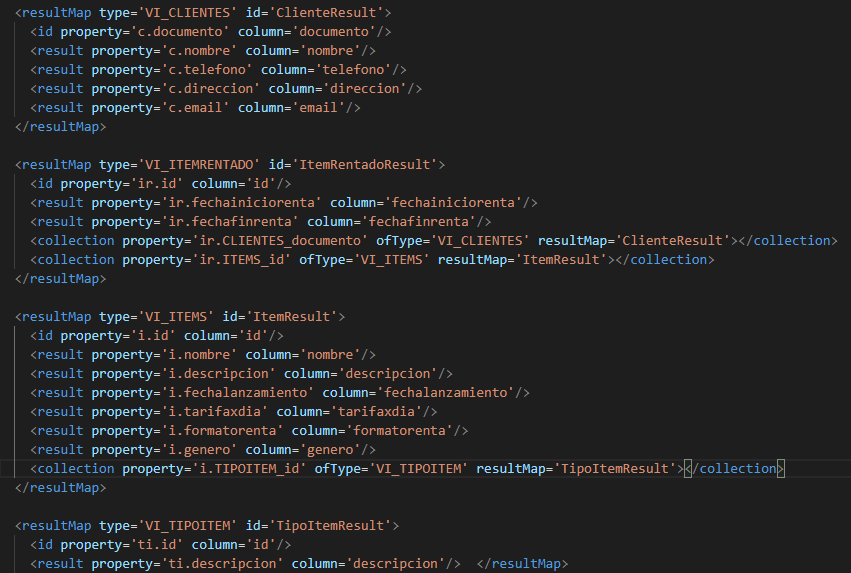
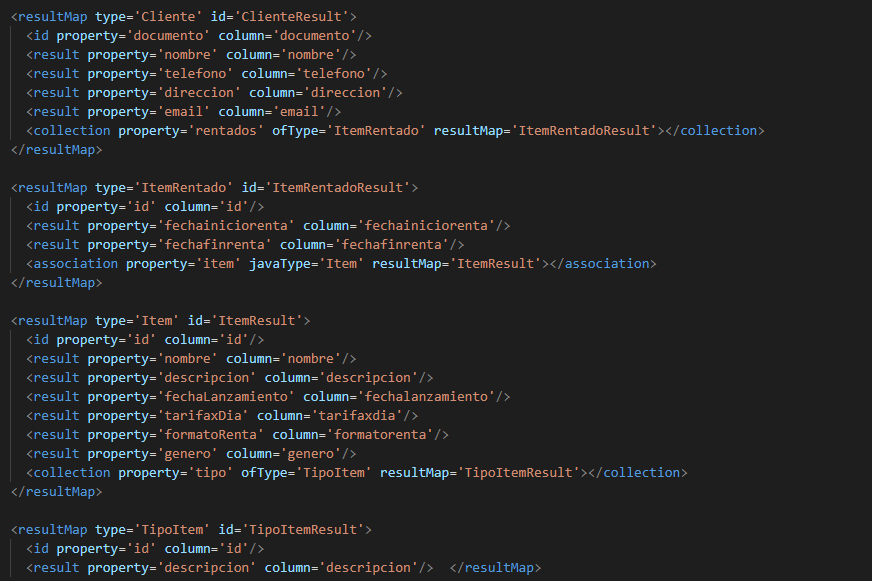
Terminacion Parte II MyBatis, sin README actualizado

Changed region(s): [[0.0, 0.0, 0.9777, 0.5044], [0.0, 0.534, 0.9166, 0.8604], [0.0, 0.8901, 0.6722, 1.0]]

diff --git a/src/main/java/edu/eci/cvds/samples/entities/Cliente.java b/src/main/java/edu/eci/cvds/samples/entities/Cliente.java
@@ -6,6 +6,7 @@
 package edu.eci.cvds.samples.entities;
 
 import java.io.Serializable;
+import java.util.ArrayList;
 
 public class Cliente implements Serializable{
     
@@ -14,18 +15,20 @@ public class Cliente implements Serializable{
     private String telefono;
     private String direccion;
     private String email;
-    private boolean vetado; 
+    private boolean vetado;
+    private ArrayList<ItemRentado> rentados;
 
     public Cliente() {
     }
 
-    public Cliente(String nombre, long documento, String telefono, String direccion, String email, boolean vetado) {   
+    public Cliente(String nombre, long documento, String telefono, String direccion, String email, boolean vetado, ArrayList<ItemRentado> rentados) {   
         this.nombre = nombre;
         this.documento = documento;
         this.telefono = telefono;
         this.direccion = direccion;
         this.email = email;
         this.vetado = vetado;
+        this.rentados = rentados;
     }
 
   
@@ -36,6 +39,7 @@ public class Cliente implements Serializable{
         this.direccion = direccion;
         this.email = email;
         this.vetado = false;
+        this.rentados = new ArrayList<>();
     }
 
            
@@ -87,9 +91,17 @@ public class Cliente implements Serializable{
         this.vetado = betado;
     }
 
+    public ArrayList<ItemRentado> getRentados() {
+        return rentados;
+    }
+
+    public void setRentados(ArrayList<ItemRentado> Rentados) {
+        this.rentados = Rentados;
+    }
+
     @Override
     public String toString() {
-        return "Cliente{" + "nombre=" + nombre + ", documento=" + documento + ", telefono=" + telefono + ", direccion=" + direccion + ", email=" + email + ", vetado=" + vetado + '}' + "\n\t";
+        return "Cliente{" + "nombre = " + nombre + ", documento = " + documento + ", telefono = " + telefono + ", direccion = " + direccion + ", email = " + email + ", vetado = " + vetado + ", rentados = " + rentados + '}' + "\n\t";
     } 
     
 }

diff --git a/src/main/java/edu/eci/cvds/samples/services/client/MyBatisExample.java b/src/main/java/edu/eci/cvds/samples/services/client/MyBatisExample.java
@@ -21,11 +21,15 @@ package edu.eci.cvds.samples.services.client;
 import java.io.IOException;
 import java.io.InputStream;
 import java.sql.SQLException;
+import java.util.Date;
+
 import org.apache.ibatis.io.Resources;
 import org.apache.ibatis.session.SqlSession;
 import org.apache.ibatis.session.SqlSessionFactory;
 import org.apache.ibatis.session.SqlSessionFactoryBuilder;
 import edu.eci.cvds.sampleprj.dao.mybatis.mappers.*;
+import edu.eci.cvds.samples.entities.Item;
+import edu.eci.cvds.samples.entities.TipoItem;
 
 /**
  *
@@ -69,17 +73,22 @@ public class MyBatisExample {
         //cm...
         
         ClienteMapper cm = sqlss.getMapper(ClienteMapper.class);
-        System.out.println(cm.consultarClientes());
+        //System.out.println(cm.consultarClientes());
+        //System.out.println(cm.consultarCliente(6));
+        //cm.agregarItemRentadoACliente(998, 4, new Date(2021,10,3), new Date(2021,10,5));
 
+        ItemMapper im = sqlss.getMapper(ItemMapper.class);
+
+        //im.insertarItem(new Item(new TipoItem(70, "guerra"), 22, "Celular", "Equipo tecnologico", new Date(121, 10, 15), 1545545744, "abduzcan", "tecnologia"));
         
         sqlss.commit();
+
+        //System.out.println(im.consultarItem(93));
+        System.out.println(im.consultarItems());
         
+        //System.out.println(cm.consultarCliente(998));
         
         sqlss.close();
-
-        
-        
+   
     }
-
-
 }

diff --git a/src/main/java/edu/eci/cvds/sampleprj/dao/mybatis/mappers/ClienteMapper.java b/src/main/java/edu/eci/cvds/sampleprj/dao/mybatis/mappers/ClienteMapper.java
@@ -3,6 +3,7 @@ package edu.eci.cvds.sampleprj.dao.mybatis.mappers;
 import java.util.Date;
 import java.util.List;
 import org.apache.ibatis.annotations.Param;
+import org.junit.runners.Parameterized.Parameters;
 
 import edu.eci.cvds.samples.entities.Cliente;
 
@@ -12,7 +13,7 @@ import edu.eci.cvds.samples.entities.Cliente;
  */
 public interface ClienteMapper {
     
-    public Cliente consultarCliente(int id); 
+    public Cliente consultarCliente(@Param("idcli") int id);
     
     /**
      * Registrar un nuevo item rentado asociado al cliente identificado
@@ -22,10 +23,10 @@ public interface ClienteMapper {
      * @param fechainicio
      * @param fechafin 
      */
-    public void agregarItemRentadoACliente(int id, 
-            int idit, 
-            Date fechainicio,
-            Date fechafin);
+    public void agregarItemRentadoACliente(@Param("idc") int id, 
+            @Param("idt") int idit, 
+            @Param("fini") Date fechainicio,
+            @Param("ffin") Date fechafin);
 
     /**
      * Consultar todos los clientes

diff --git a/src/main/java/edu/eci/cvds/sampleprj/dao/mybatis/mappers/ItemMapper.java b/src/main/java/edu/eci/cvds/sampleprj/dao/mybatis/mappers/ItemMapper.java
@@ -16,9 +16,9 @@ public interface ItemMapper {
     
     public List<Item> consultarItems();        
     
-    public Item consultarItem(int id);
+    public Item consultarItem(@Param("idIt") int id);
     
-    public void insertarItem(Item it);
+    public void insertarItem(@Param ("item") Item it);
 
         
 }

diff --git a/src/main/java/edu/eci/cvds/samples/entities/ItemRentado.java b/src/main/java/edu/eci/cvds/samples/entities/ItemRentado.java
@@ -8,6 +8,8 @@ package edu.eci.cvds.samples.entities;
 import java.io.Serializable;
 import java.sql.Date;
 
+import org.apache.ibatis.annotations.Param;
+
 /**
  *
  * @author 2106913

diff --git a/README.md b/README.md
@@ -53,6 +53,7 @@
         <typeAlias type='edu.eci.cvds.samples.entities.TipoItem' alias='TipoItem'/>
     </typeAliases>	
     ```
+![](https://github.com/Pokecris200/Lab7CVDS/blob/master/Recursos/TypeAliases%20mybatis-config.png)
 
 2. Lo primero que va a hacer es configurar un 'mapper' que permita que el framework reconstruya todos los objetos Cliente con sus detalles (ItemsRentados). Para hacer más eficiente la reconstrucción, la misma se realizará a partir de una sola sentencia SQL que relaciona los Clientes, sus Items Rentados, Los Items asociados a la renta, y el tipo de item. Ejecute esta sentencia en un cliente SQL (en las estaciones Linux está instalado EMMA), y revise qué nombre se le está asignando a cada columna del resultado:
 
@@ -81,6 +82,7 @@
         left join VI_ITEMS as i on ir.ITEMS_id=i.id 
         left join VI_TIPOITEM as ti on i.TIPOITEM_id=ti.id 
 	```
+![](https://github.com/Pokecris200/Lab7CVDS/blob/master/Recursos/Consulta%20SQL%20MyBatis.png)
 
 3. Abra el archivo XML en el cual se definirán los parámetros para que MyBatis genere el 'mapper' de Cliente (ClienteMapper.xml). Ahora, mapee un elemento de tipo \<select> al método 'consultarClientes':
 
@@ -89,8 +91,9 @@
    			SENTENCIA SQL
 	</select>
 	```
+![](https://github.com/Pokecris200/Lab7CVDS/blob/master/Recursos/Actualizacion%20ClienteMapper.png)
 
-3. Note que el mapeo hecho anteriormente, se indica que los detalles de a qué atributo corresponde cada columna del resultado de la consulta están en un 'resultMap' llamado "ClienteResult". En el XML del mapeo agregue un elemento de tipo &lt;resultMap&gt;, en el cual se defina, para una entidad(clase) en particular, a qué columnas estarán asociadas cada una de sus propiedades (recuerde que propiedad != atributo). La siguiente es un ejemplo del uso de la sintaxis de &lt;resultMap&gt; para la clase Maestro, la cual tiene una relación 'uno a muchos' con la clase DetalleUno y una relación 'uno a uno' con la clase DetalleDos, y donde -a la vez-, DetalleUno tiene una relación 'uno-a-uno- con DetalleDos:
+4. Note que el mapeo hecho anteriormente, se indica que los detalles de a qué atributo corresponde cada columna del resultado de la consulta están en un 'resultMap' llamado "ClienteResult". En el XML del mapeo agregue un elemento de tipo &lt;resultMap&gt;, en el cual se defina, para una entidad(clase) en particular, a qué columnas estarán asociadas cada una de sus propiedades (recuerde que propiedad != atributo). La siguiente es un ejemplo del uso de la sintaxis de &lt;resultMap&gt; para la clase Maestro, la cual tiene una relación 'uno a muchos' con la clase DetalleUno y una relación 'uno a uno' con la clase DetalleDos, y donde -a la vez-, DetalleUno tiene una relación 'uno-a-uno- con DetalleDos:
 
 	```xml
     <resultMap type='Maestro' id='MaestroResult'>
@@ -119,6 +122,8 @@
 	Como observa, Para cada propiedad de la clase se agregará un elemento de tipo &lt;result&gt;, el cual, en la propiedad 'property' indicará el nombre de la propiedad, y en la columna 'column' indicará el nombre de la columna de su tabla correspondiente (en la que se hará persistente). En caso de que la columna sea una llave primaria, en lugar de 'result' se usará un elemento de tipo 'id'. Cuando la clase tiene una relación de composición con otra, se agrega un elemento de tipo &lt;association&gt;.Finalmente, observe que si la clase tiene un atributo de tipo colección (List, Set, etc), se agregará un elemento de tipo &lt;collection&gt;, indicando (en la propiedad 'ofType') de qué tipo son los elementos de la colección. En cuanto al indentificador del 'resultMap', como convención se suele utilizar el nombre del tipo de dato concatenado con 'Result' como sufijo.
 	
 	Teniendo en cuenta lo anterior, haga cuatro 'resultMap': uno para la clase Cliente, otro para la clase ItemRentado, otro para la clase Item, y otro para la clase TipoItem. 
+
+![](https://github.com/Pokecris200/Lab7CVDS/blob/master/Recursos/ResultMaps.png)
 
 5. Una vez haya hecho lo anterior, es necesario que en el elemento &lt;collection&gt; del maestro se agregue una propiedad que indique cual es el 'resultMap' a través del cual se podrá 'mapear' los elementos contenidos en dicha colección. Para el ejemplo anterior, como la colección contiene elementos de tipo 'Detalle', se agregará el elemento __resultMap__ con el identificador del 'resultMap' de Detalle:
 
@@ -166,6 +171,7 @@
 	...
 	```
 
+![](https://github.com/Pokecris200/Lab7CVDS/blob/master/Recursos/Ejecucion%20MyBatis.png)
 
 ## Parte II (para el Miércoles)
 
@@ -211,3 +217,4 @@
 + <https://stackoverflow.com/questions/6810375/resultset-convert-to-int-from-query>
 + <https://www.freecodecamp.org/news/java-string-to-int-how-to-convert-a-string-to-an-integer/>
 + <https://www.anerbarrena.com/mysql-insert-5169/>
++ <https://mybatis.org/mybatis-3/es/>
